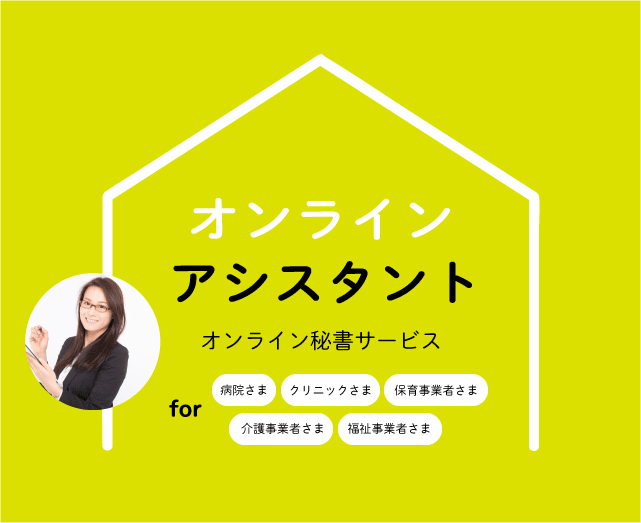
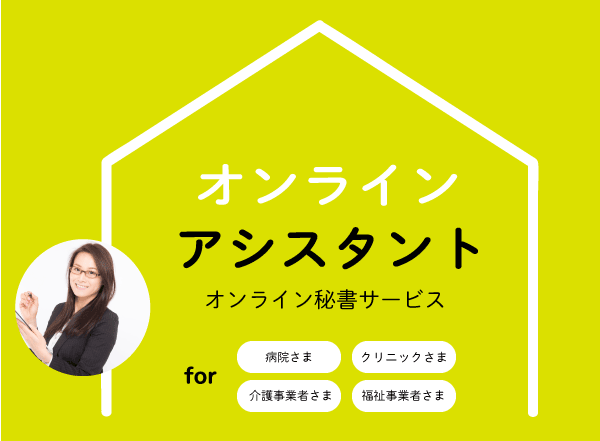
nav,title fixed

diff --git a/index.html b/index.html
@@ -3,7 +3,7 @@
 
 <head>
   <meta charset="utf-8">
-  <meta name="viewport" content="width=device-width, initial=scale=1, user-scalable=no">
+  <meta name="viewport" content="width=device-width, user-scalable=no">
   <meta name="robots" content="index">
   <meta property="og:locale" content="ja_JP" />
   <meta name="description"
@@ -25,12 +25,15 @@
   <nav class="clone-nav">         
     <h1>
       <a href="/" class="logo">
-        <img src="img/log.png" width="60px" alt="Edgest">
+      <img src="img/log.png" width="60px" alt="Edgest">
       </a>
     </h1>
-    <ul class="left">
+    <ul class="nav_left">
       <li>
         <a href="#feature">特徴</a>
+      </li>
+      <li>
+        <a href="#survice">サービス</a>
       </li>
       <li>
         <a href="#partner">パートナー</a>
@@ -39,13 +42,19 @@
         <a href="#casestudy">導入例</a>
       </li>
       <li>
-        <a href="#price">料金</a>
+      <a href="#price">料金</a>
+      </li>
+      <li>
+      <a href="#flow">運用流れ</a>
+      </li>
+      <li>
+      <a href="#QA">Q&A</a>
       </li>
       <li>
         <a href="#company">事業案内</a>
       </li>
     </ul>
-    <ul>
+    <ul class="nav_right">
       <li class="tel">
         tel.050-5375-8975
       </li>
@@ -54,57 +63,107 @@
       </li>
     </ul>
   </nav>
-  <nav class="sp">
-    <ul class="left">
-      <li>
-        <a href="#feature">特徴</a>
-      </li>
-      <li>
-        <a href="#partner">パートナー</a>
-      </li>
-      <li>
-        <a href="#casestudy">導入例</a>
-      </li>
-      <li>
-        <a href="#price">料金</a>
-      </li>
-      <li>
-        <a href="#company">事業案内</a>
-      </li>
-    </ul>
-    <ul>
-      <li class="tel">
-        tel.050-5375-8975
-      </li>
-      <li>
-        <a href="#contact">資料請求/お問い合わせ</a>
-      </li>
-    </ul>
-  </nav>
-  <header>
-    
-
-      <div class="wrapper">
-        <h1 class="slide-in-right">
-        <img src="img/title.png" width="680" alt="オンラインアシスタント オンライン秘書サービス 病院さま/クリニックさま/介護事業者さま/福祉事業者さま/保育事業者さま">
-      </h1>
-      <a href="#contact">今すぐ相談する</a>
-      <div class="slide-in-left">
-        <h2 class="font-round">
-          任せられない不安を
-          <br class="off-sp">
-          任せられる安心へ
-        </h2>
-        <p>
-          オンライン秘書サービスは必要な業務を必要な分だけその道の専門家に業務を依頼できるサービスです｡
-        </p>
+  <div class="wrapper">
+    <div  class="title_left">
+      <h2 class="font-round">
+        任せられない不安を
+        <br class="off-sp">
+        任せられる安心へ
+      </h2>
+      <p>
+        オンライン秘書サービスは必要な業務を必要な分だけその道の専門家に業務を依頼できるサービスです｡
+      </p>
+      <div class="contact-btn">
+        <a href="#contact" class="btn">今すぐ相談する</a>
       </div>
-      ::after
     </div>
+    <div class="title_right">
+      <img src="img/title.png" width="680" alt="オンラインアシスタント オンライン秘書サービス 病院さま/クリニックさま/介護事業者さま/福祉事業者さま/保育事業者さま">
+        </div>
+    </div>
+  <main>
+    <div id="feature">
+      <section class=" ">
+        <h1>このようなお悩みは御座いませんか?</h1>
+        <h2>経営者･事業者さま</h2>
+        <img src="" alt="">
+        <div class="box_gray"> 
+          <ul>
+            <li>
+              <p>
+                リソースが足りない･･･
+              </p>
+            </li>
+            <li>
+              <p>
+                専門家を雇うコストがない･･･
+              </p>
+            </li>
+            <li>
+              <p>
+                従業員に負担を掛けたくない･･･
+              </p>
+            </li>
+          </ul>
+        </div>
+        <div class="">
+          <h2>エジストなら...</h2>
+          <div class="box">
+            <div class="box_s">
+              <img src="" alt="">
+              <h3>リソースをすぐに調整できる</h3>
+              <p>必要な時に必要な分だけ時間を使用できます｡
+                <br>
+                余った時間は次月繰り越しも可能です｡
+              </p>
+            </div>
+            <div class="box_s">
+              <img src="" alt="">
+              <h3>圧倒的なコストパフォーマンス</h3>
+              <p>採用費､教育費､設備費等の負担を掛けず､
+                <br>
+                専門アシスタントに業務を切り出せます｡
+              </p>
+            </div>
+            <div class="box_s">
+              <img src="" alt="">
+              <h3>幅広い業務を依頼できる</h3>
+              <p>秘書業務だけでなく､人事､経理､Web業務等
+                <br>
+                チーム体制を取り､幅広い業務をサポートします｡
+              </p>
+            </div>
+          </div>
+        </div>
+      </section>
+    </div>
+
+    <div id="survice">
     
+    </div>
+    <div id="partner">
+    
+    </div>
+    <div id="casestudy">
+    
+    </div>
+    <div id="price">
+    
+    </div>
+    <div id="flow">
+    
+    </div>
+    <div id="QA">
+    
+    </div>
+    <div id="company">
+    
+    </div>
+    <div id="contact">
+    
+    </div>
+  </main>
   
-  </header>
-    
   <footer>
     
   </footer>

diff --git a/css/styles.css b/css/styles.css
@@ -1,25 +1,77 @@
-html body{
+html,body{
   width:100%;
   height:100%;
-  padding:0;
-  border:none;
 }
 body{
   background-color: #fff;
-  overflow-x: hidden;
-  }
-header {
-  background-color: #fff;
+  /* overflow-x: hidden; */
+  margin: 0;
+  padding:0
+}
+
+.clone-nav{
+  background-color:#DBE000;
+  display: flex;
+  
+}
+nav ul{
+  list-style: none;
+  display: flex;
+  margin: 0;
+  padding: 0;
+}
+
+nav ul a, .tel{
+  padding: 0 10px;
+  line-height:75px;
+}
+nav li a:hover{
+  background: #eeeeee;
+}
+
+.logo{
+  margin: 0 20px 0;
+}
+
+/* .nav_left{
+  text-align: left;
+}
+
+.nav_right{
+  text-align: right;
+} */
+
+.wrapper {
+  background-color: #DBE000;
   width:100%;
   max-width:100%;
-  }
-#all{
-  opacity:0;
-  transition:opacity .3s;
-  -webkit-font-smoothing: antialiased;
-  -moz-osx-font-smoothing: grayscale;
-  }
+}
 
-nav{
-  
+.btn{
+  background: orange;
+  color: #fff;
+  display: block;
+  width: 300px;
+  line-height: 80px;
+  margin: auto;
+  text-align: center;
+}
+.btn:hover{
+  opacity: 0.9;
+}
+
+@media(min-width:900px){
+  .wrapper{
+    display: flex;
+    width: 100%;
+    margin: 0;
+    /* justify-content: space-between; */
+  }
+ .title_left{
+    width: 50%;
+    flex-direction: column;
+  }
+  .title_right{
+    width: 50%;
+  }
 }
